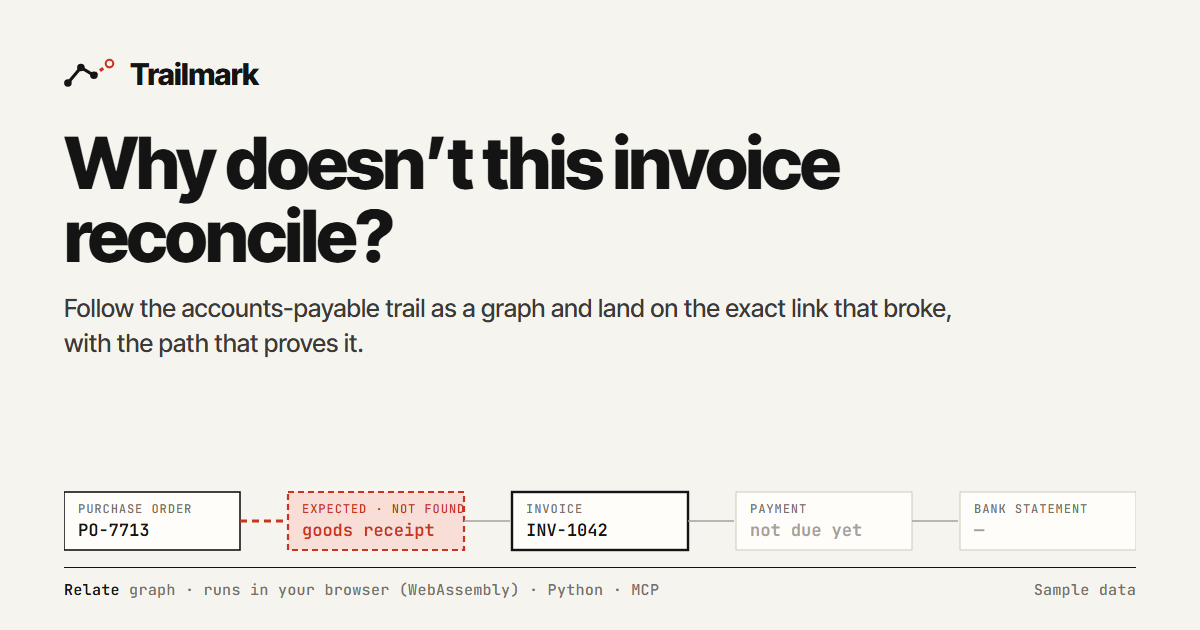
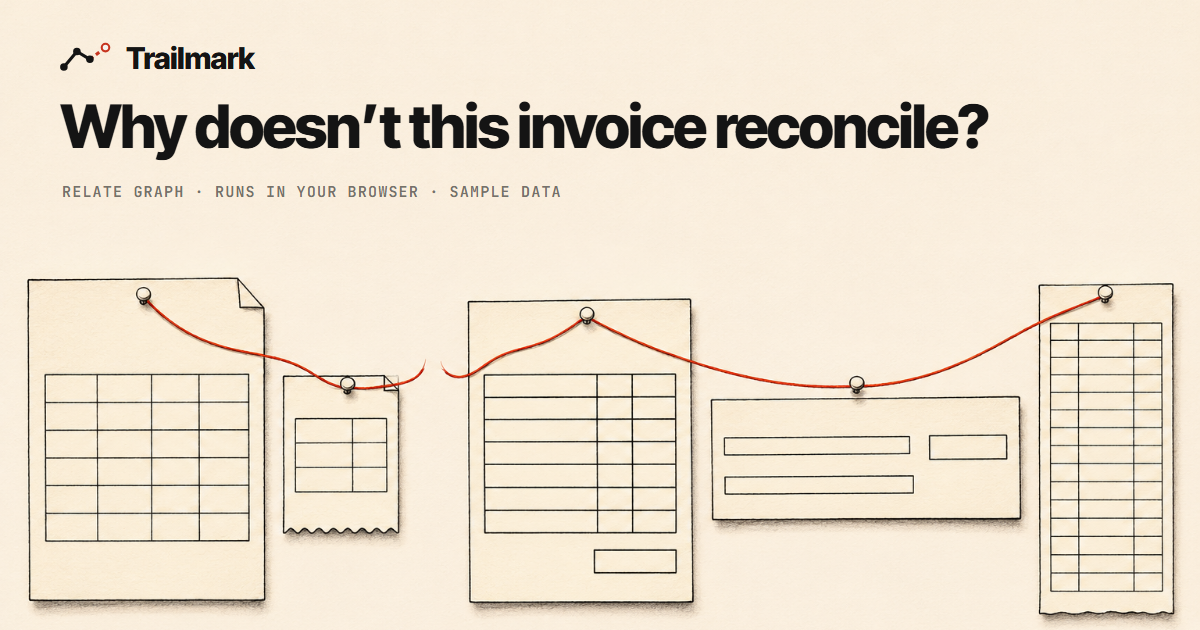
Paper-trail illustration: README hero, link preview, loading screen and How it works; no em dashes

diff --git a/docs/brand/card.html b/docs/brand/card.html
@@ -1,0 +1,47 @@
+<!doctype html>
+<html><head><meta charset="utf-8">
+<!-- Title cards over the trail illustration. Usage: card.html?img=<file>&w=1200&h=800&mode=thumb|banner|og -->
+<link href="https://fonts.googleapis.com/css2?family=Inter+Tight:wght@600;800&family=JetBrains+Mono:wght@500;600&display=swap" rel="stylesheet">
+<style>
+  html, body { margin: 0; overflow: hidden; background: #f6f4ef; }
+  #c { position: relative; overflow: hidden; }
+  #c img { position: absolute; left: 0; width: 100%; height: auto; }
+  .brand { position: absolute; display: flex; align-items: center; gap: 14px; font: 800 30px 'Inter Tight', sans-serif; color: #141414; letter-spacing: -.02em; }
+  .brand svg { width: 52px; height: 34px; }
+  h1 { position: absolute; margin: 0; font: 800 76px/1.02 'Inter Tight', sans-serif; letter-spacing: -.035em; color: #141414; }
+  p { position: absolute; margin: 0; font: 600 25px/1.35 'Inter Tight', sans-serif; color: #3b3a37; }
+  .tag { position: absolute; font: 600 15px 'JetBrains Mono', monospace; letter-spacing: .08em; text-transform: uppercase; color: #75716a; }
+</style></head>
+<body>
+<div id="c">
+  <img id="art" alt="">
+  <div class="brand" id="brand"><svg viewBox="0 0 40 24"><path d="M3 19 L13 7 L23 13" stroke="#141414" stroke-width="2.4" fill="none"/><path d="M23 13 L35 4" stroke="#c7341f" stroke-width="2.4" stroke-dasharray="3.2 2.6" fill="none"/><circle cx="3" cy="19" r="2.9" fill="#141414"/><circle cx="13" cy="7" r="2.9" fill="#141414"/><circle cx="23" cy="13" r="2.9" fill="#141414"/><circle cx="35" cy="4" r="2.9" fill="#f6f4ef" stroke="#c7341f" stroke-width="1.6"/></svg>Trailmark</div>
+  <h1 id="h">Why doesn’t this invoice reconcile?</h1>
+  <p id="p"></p>
+  <div class="tag" id="t"></div>
+</div>
+<script>
+  const q = new URLSearchParams(location.search);
+  const W = +q.get('w') || 1200, H = +q.get('h') || 800, mode = q.get('mode') || 'thumb';
+  const c = document.getElementById('c'); c.style.width = W + 'px'; c.style.height = H + 'px';
+  const art = document.getElementById('art'); art.src = q.get('img');
+  const set = (id, css) => Object.assign(document.getElementById(id).style, css);
+  if (mode === 'thumb') {          // 3:2 Devpost card: art fills, title on the empty top
+    art.style.top = (H - W * 2 / 3) + 'px';
+    set('brand', { left: '64px', top: '52px' });
+    set('h', { left: '64px', top: '118px', fontSize: '82px', maxWidth: '1000px' });
+  } else if (mode === 'banner') {  // README hero 1600x900: art bottom-aligned, title and one line on the empty top
+    art.style.top = '-60px';
+    set('brand', { left: '80px', top: '56px', fontSize: '34px' });
+    set('h', { left: '80px', top: '118px', fontSize: '88px', maxWidth: '1200px' });
+    document.getElementById('p').textContent = 'Accounts payable as a Relate graph. Six checks walk every invoice from purchase order to bank line and our GSTR-2B, and land on the link that broke.';
+    set('p', { left: '80px', top: '318px', maxWidth: '1150px', fontSize: '27px' });
+  } else {                         // og 1200x630
+    art.style.top = '-92px';
+    set('brand', { left: '60px', top: '40px' });
+    set('h', { left: '60px', top: '96px', fontSize: '60px', maxWidth: '1120px', whiteSpace: 'nowrap' });
+    document.getElementById('t').textContent = 'Relate graph · runs in your browser · sample data';
+    set('t', { left: '62px', top: '182px' });
+  }
+</script>
+</body></html>

diff --git a/web/style.css b/web/style.css
@@ -44,13 +44,14 @@ button { font: inherit; color: inherit; }
 .engine.fail .pulse { background: var(--red); }
 .howbtn { height: 30px; padding: 0 12px; border: 1px solid var(--ink); background: transparent; font-size: 13px; font-weight: 600; cursor: pointer; white-space: nowrap; }
 .howbtn:hover { background: var(--ink); color: var(--paper); }
-dialog.how { max-width: 620px; width: calc(100% - 32px); border: 1px solid var(--ink); background: var(--card); color: var(--ink); padding: 28px 32px 24px; }
+dialog.how { overflow-x: hidden; max-width: 620px; width: calc(100% - 32px); border: 1px solid var(--ink); background: var(--card); color: var(--ink); padding: 28px 32px 24px; }
 dialog.how::backdrop { background: rgba(20, 20, 20, .35); }
 dialog.how h2 { margin: 0 0 14px; font-size: 24px; font-weight: 800; letter-spacing: -.02em; }
 dialog.how ol { margin: 0; padding-left: 20px; display: grid; gap: 12px; font-size: 14.5px; line-height: 1.55; color: var(--ink-2); }
 dialog.how ol b { color: var(--ink); }
 .how-x { position: absolute; top: 18px; right: 20px; }
-.how-x button { border: none; background: none; font-family: var(--mono); font-size: 11px; letter-spacing: .08em; text-transform: uppercase; color: var(--ink-3); cursor: pointer; }
+.how-x { z-index: 2; }
+.how-x button { border: none; background: var(--card); padding: 4px 9px; font-family: var(--mono); font-size: 11px; letter-spacing: .08em; text-transform: uppercase; color: var(--ink-3); cursor: pointer; }
 .how-try { margin: 18px 0 0; padding-top: 14px; border-top: 1px solid var(--rule); font-size: 14px; }
 .how-try a { font-family: var(--mono); font-weight: 600; font-size: 13px; }
 .how-foot { margin: 10px 0 0; font-size: 12.5px; color: var(--ink-3); }
@@ -94,7 +95,9 @@ dialog.how ol b { color: var(--ink); }
 .row .amt { font-family: var(--mono); font-size: 12px; padding-top: 1px; color: var(--ink-2); font-variant-numeric: tabular-nums; }
 
 /* ---------- stage ---------- */
-.loading { padding: 80px 0; color: var(--ink-3); max-width: 520px; }
+.loading { padding: 40px 0; color: var(--ink-3); max-width: 720px; }
+.ld-art { display: block; width: 100%; height: auto; margin-bottom: 18px; }
+.how-art { display: block; width: calc(100% + 64px); height: 190px; object-fit: cover; object-position: 50% 78%; margin: -28px -32px 18px; }
 .ld-line { height: 2px; background: linear-gradient(90deg, var(--ink) 0 30%, transparent 30%); background-size: 200% 100%; animation: ld 1s linear infinite; margin-bottom: 14px; }
 @keyframes ld { from { background-position: 100% 0; } to { background-position: -100% 0; } }
 

diff --git a/web/index.html b/web/index.html
@@ -46,7 +46,7 @@
     <section class="books">
       <div class="books-co">Sample Traders Pvt Ltd <em>(fictional)</em></div>
       <div class="books-asof">Accounts payable · books as of <span id="asof">31 Oct 2026</span></div>
-      <div class="risk"><span class="risk-n" id="risk">—</span><span class="risk-l">at risk across <b id="exc-n">—</b> exceptions</span></div>
+      <div class="risk"><span class="risk-n" id="risk">&nbsp;</span><span class="risk-l">at risk across <b id="exc-n">&nbsp;</b> exceptions</span></div>
       <div class="tally" id="tally"></div>
     </section>
     <nav id="list" class="list"></nav>
@@ -54,6 +54,7 @@
 
   <section class="stage" id="stage">
     <div class="loading" id="loading">
+      <img class="ld-art" src="trail-art.jpg" alt="Paper documents joined by a red thread that is cut between two of them" width="960" height="640">
       <div class="ld-line"></div>
       <p>Loading the Relate engine and rebuilding the graph from <code>store/trailmark.rl</code>…</p>
     </div>
@@ -67,6 +68,7 @@
 
 <dialog class="how" id="how" aria-labelledby="how-h">
   <form method="dialog" class="how-x"><button aria-label="Close">Close</button></form>
+  <img class="how-art" src="trail-art.jpg" alt="" width="960" height="640">
   <h2 id="how-h">How Trailmark works</h2>
   <ol>
     <li><b>The books become a graph.</b> Thirteen sample ledgers (purchase orders, goods receipts, invoices, payments, bank statement lines, our GSTR-2B) are linked by the keys an accountant uses: PO number, bank reference (UTR), GSTIN and invoice number. 184 nodes, 265 relationships.</li>

diff --git a/docs/brand/og.html b/docs/brand/og.html
@@ -27,7 +27,7 @@
     <path d="M624 35 L670 35" stroke="#a6a198" stroke-width="1.6"/>
     <g><rect x="672" y="6" width="176" height="58" fill="#fffdf9" stroke="#cfc9bd"/><text class="k" x="686" y="27">Payment</text><text class="i" x="686" y="50" style="fill:#a6a198">not due yet</text></g>
     <path d="M848 35 L894 35" stroke="#a6a198" stroke-width="1.6"/>
-    <g><rect x="896" y="6" width="176" height="58" fill="#fffdf9" stroke="#cfc9bd"/><text class="k" x="910" y="27">Bank statement</text><text class="i" x="910" y="50" style="fill:#a6a198">—</text></g>
+    <g><rect x="896" y="6" width="176" height="58" fill="#fffdf9" stroke="#cfc9bd"/><text class="k" x="910" y="27">Bank statement</text><text class="i" x="910" y="50" style="fill:#a6a198">none yet</text></g>
   </svg>
   <div class="foot"><span><b>Relate</b> graph · runs in your browser (WebAssembly) · Python · MCP</span><span>Sample data</span></div>
 </div></body></html>

diff --git a/web/app.js b/web/app.js
@@ -364,7 +364,7 @@ function fixedNote(grn, v) {
     <div style="margin-top:8px"><button class="btn ghostbtn" data-reset="1">Reset sample books</button></div></div>`;
 }
 
-const fmtMs = (ms) => (ms == null ? '—' : ms < 1 ? `${ms.toFixed(2)} ms` : `${ms.toFixed(1)} ms`);
+const fmtMs = (ms) => (ms == null ? 'n/a' : ms < 1 ? `${ms.toFixed(2)} ms` : `${ms.toFixed(1)} ms`);
 
 const PRESETS = [
   ['Who is linked to PAY-3410?', `MATCH path = (p:Payment {id: 'PAY-3410'})

diff --git a/trailmark/render.py b/trailmark/render.py
@@ -129,7 +129,7 @@ def trail(ex: dict) -> str:
 def finding(f: dict, n: int | None = None) -> str:
     sev = red("HIGH  ") if f["severity"] == "high" else amber("MEDIUM")
     lines = [
-        f"  {sev} {bold(f['title'])} — {rupees_in_text(f['headline'])}",
+        f"  {sev} {bold(f['title'])}: {rupees_in_text(f['headline'])}",
         *[f"         {x}" for x in wrap(rupees_in_text(f["detail"]), 74)],
     ]
     if f.get("suggestion"):

diff --git a/README.md b/README.md
@@ -1,5 +1,7 @@
 # Trailmark
 
+![Trailmark: why doesn't this invoice reconcile? A row of paper documents, purchase order, goods receipt, invoice, cheque and bank statement, joined by a red thread that is cut between the receipt and the invoice](docs/hero.jpg)
+
 **Why doesn't this invoice reconcile?** Trailmark follows an invoice through the accounts-payable trail (purchase order, goods receipt, invoice, payment, bank line, our GSTR-2B) as a [Relate](https://github.com/relatedb/relate) graph. It points at the exact link that is broken and shows the path that proves it.
 
 [**Live demo**](https://automationbot24x7.github.io/trailmark/) (runs in your browser, nothing to install) · [**Demo video (1:42)**](https://youtu.be/RA4vIVOmemc) · Python, CLI and AI-agent tools below
@@ -242,6 +244,7 @@ tests/            end-to-end tests (standard library only)
 
 - [Relate](https://github.com/relatedb/relate) by Neo4j (Apache-2.0): `relate-db` from PyPI, and the unmodified `@relate/relate-wasm` 1.0.1 package vendored in [`web/vendor/relate-wasm/`](web/vendor/relate-wasm/NOTICE.md).
 - Fonts: Inter Tight and JetBrains Mono from Google Fonts.
+- The paper-trail illustration (README hero, link preview, loading screen) was made with an AI image model; prompt in [`docs/brand/art-prompts.md`](docs/brand/art-prompts.md). Screenshots and diagrams are rendered from the app and from code.
 - Everything else was written for this hackathon, with help from an AI coding assistant (described in the Devpost submission).
 
 ## License

diff --git a/docs/brand/art-prompts.md b/docs/brand/art-prompts.md
@@ -1,0 +1,5 @@
+# Illustration
+
+`trail-art.png` (the paper trail with the cut red thread) was made with an AI image model from the prompt below, then composed with the title in `card.html` (README hero `docs/hero.jpg`, link preview `web/og.png`). Everything else in `docs/` is drawn or rendered from code.
+
+> Overhead flat-lay of a row of five paper business documents laid left to right on a warm off-white paper surface: a purchase order sheet, a small goods receipt slip, an invoice, a bank cheque, and a long bank statement strip. A single vermilion red thread runs from document to document, pinned to each one, but between the second and third document the thread is cut: two loose ends curl apart leaving a clear gap. The documents show only abstract ruled lines, boxes and columns, never readable writing. Calm, precise, serious mood for an accounting tool. Limited palette: black ink, warm cream paper, one vermilion red accent. Wide 3:2 landscape composition, documents in the lower two thirds, generous empty cream space across the top third. Style: fine-line editorial ink illustration with flat colour fills, crisp outlines, subtle soft shadows, like a quality financial newspaper illustration.
